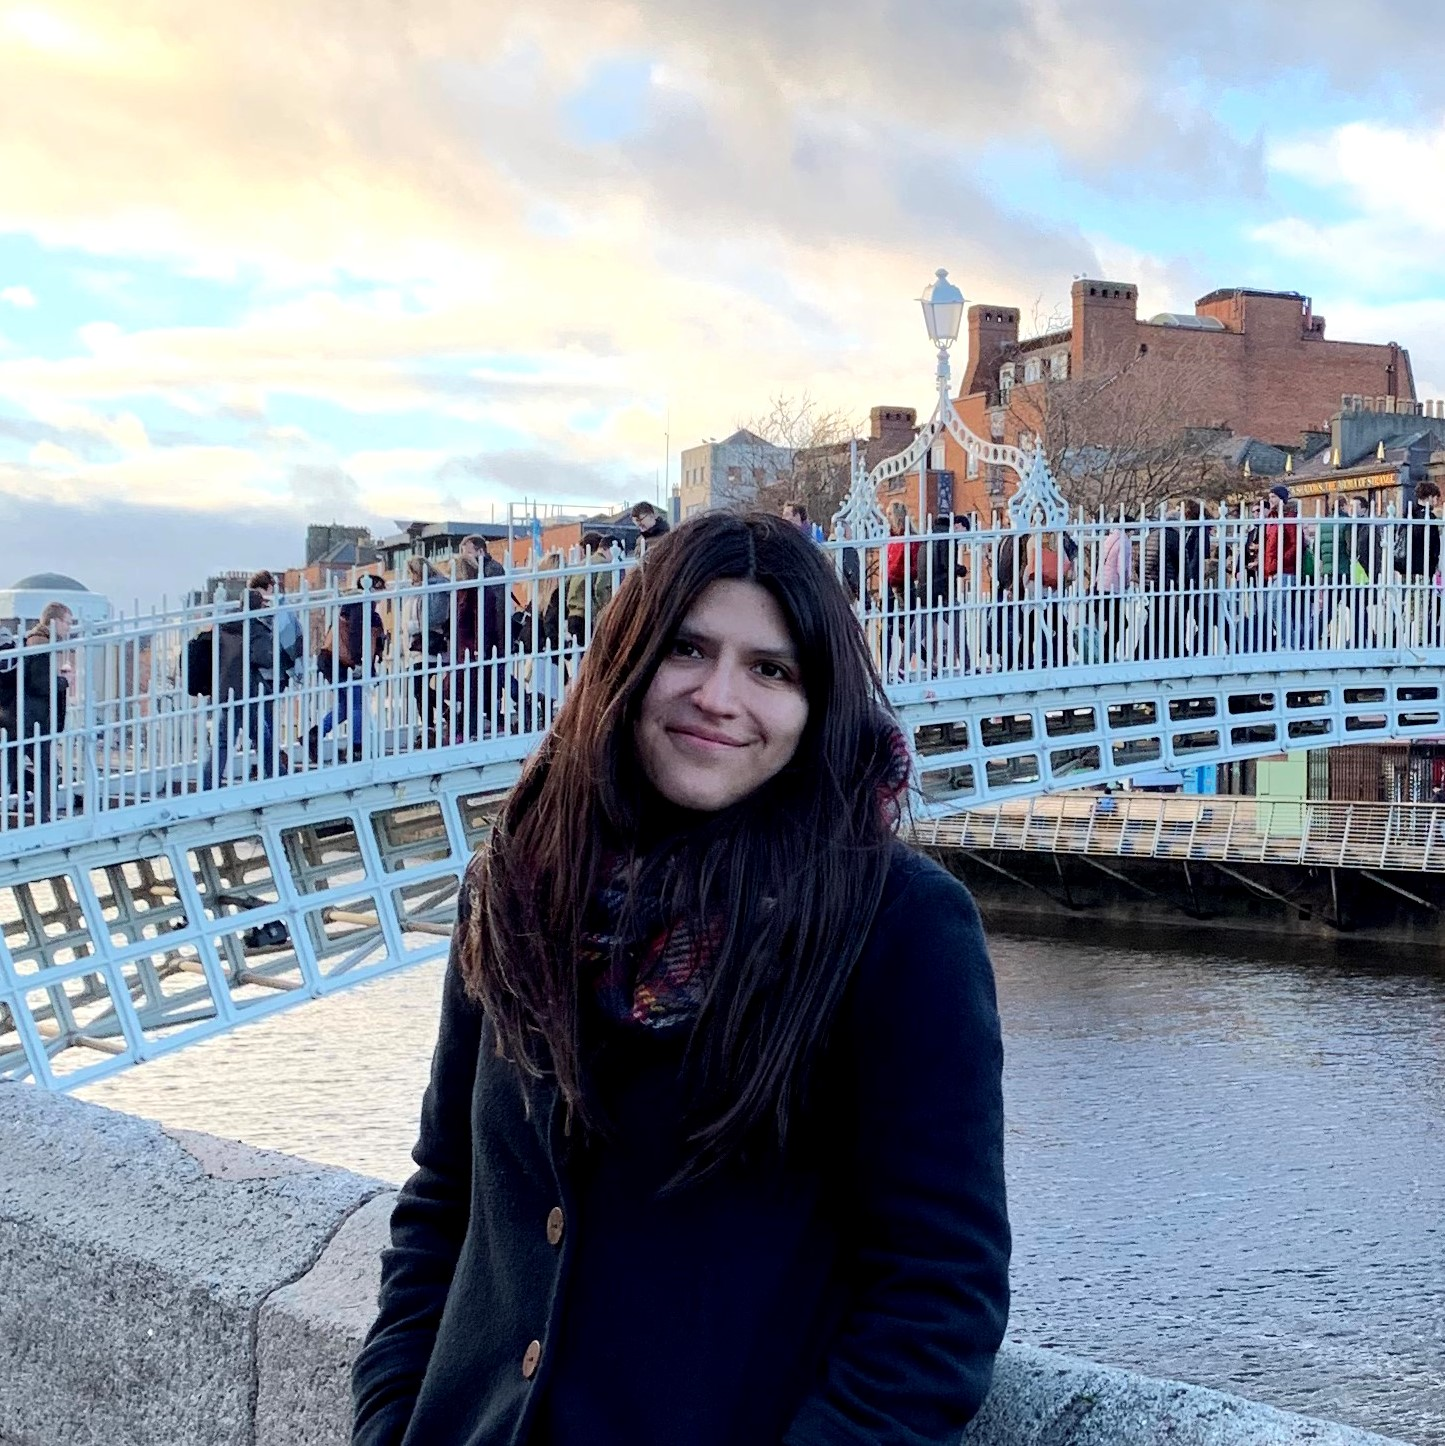
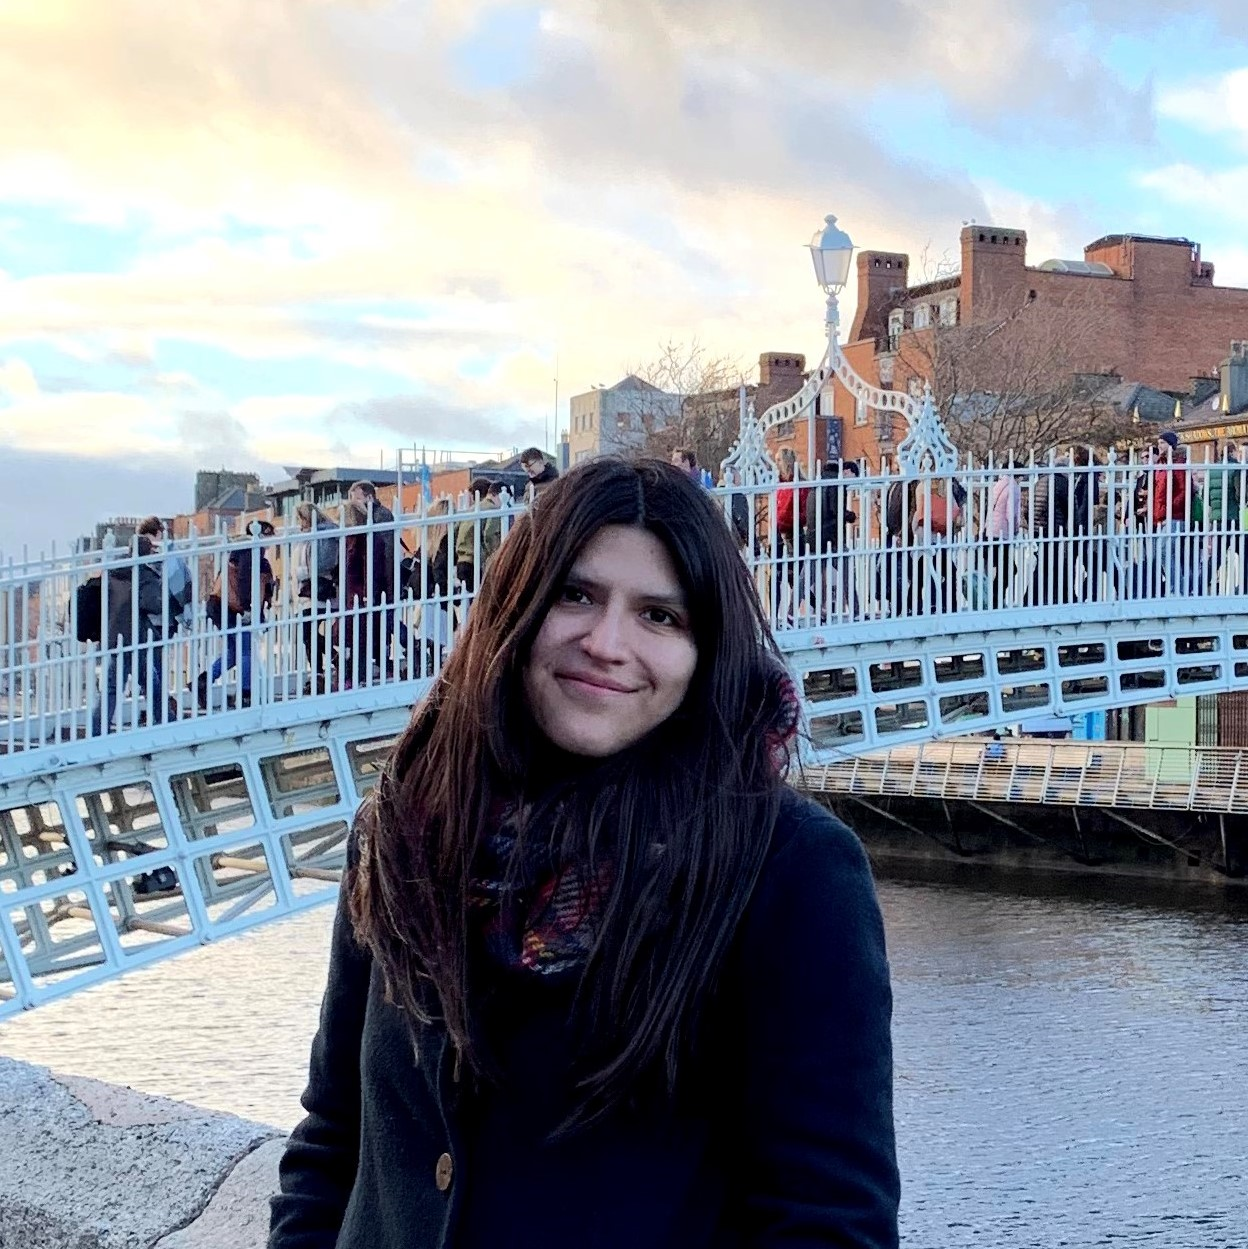
Estilo y fix de cursor

diff --git a/assets/javascript/personal-website.js b/assets/javascript/personal-website.js
@@ -17,26 +17,27 @@ const replaceText = (element, texts, period) => {
         let periodAux = period;
         let currentText = element.innerHTML;
 
+        if(currentText === texts[texts.length - 1]) {
+            element.classList.toggle("blinking-cursor"); //Remove
+            return;
+        };
+
         if(currentText === "") {
             action = TYPE;
             text = texts[i];
             i++;
         };
 
-        if(currentText === text) { action = DELETE; };
-
-        if(currentText === texts[texts.length - 1]) {
-            element.classList.remove("cursor");
-            element.classList.remove("blinking-cursor");
-            return;
+        if(currentText === text) {
+            element.classList.toggle("cursor"); //Add
+            action = DELETE;
         };
 
         currentText = text.substring(0, currentText.length + action);
         element.innerHTML = currentText;
 
         if(currentText === text) {
-            element.classList.remove("cursor");
-            element.classList.add("blinking-cursor");
+            element.classList.toggle("cursor"); //Remove
             periodAux = WAIT;
         };
 
@@ -47,8 +48,8 @@ const replaceText = (element, texts, period) => {
     period = parseInt(period, 10) || 150;
 
     setTimeout(() => {
-        element.classList.add("cursor");
-        updateText(element, element.innerHTML, DELETE)
+        element.classList.toggle("blinking-cursor"); //Add
+        updateText(element, element.innerHTML, TYPE);
     }, WAIT);
 };
 
@@ -59,6 +60,6 @@ window.onload = () => {
         let texts = element.getAttribute('data-texts');
         let period = element.getAttribute('data-period');
 
-        setTimeout(replaceText(element, JSON.parse(texts), period), 750);
+        setTimeout(replaceText(element, JSON.parse(texts), period), 1000);
     });
 };

diff --git a/index.html b/index.html
@@ -11,11 +11,11 @@
 <body>
     <div class="container">
         <img src="assets/images/Profile - Dublin.jpg" alt="Foto de perfil" class="photo">
-        <h1 class="greeting typed" data-period="100" data-texts='[ "¡Bienvenido!", "Bienvenue !", "Welcome!" ]'>Hello, stranger!</h1>
+        <div class="greeting-container"><h2 class="greeting typed" data-period="100" data-texts='[ "¡Bienvenido!", "Bienvenue !", "Welcome!" ]'>Hello, stranger!</h2></div>
         <p class="about-me">My name is Tamara Berrocal 👩🏻🎤, but I prefer Tami.</p>
         <p class="about-me">I'm a web dev enthusiast 👩🏻💻 pursuing a career change, since I'm currently working as a functional (sometimes technical) analyst.</p>
-        <p class="home">I live in Buenos Aires 💜, but I'd love to live abroad for a while, or even relocate, who knows.</p>
-        <p>You can find me at:</p>
+        <p class="about-me">I live in Buenos Aires 💜, but I'd love to live abroad for a while, or even relocate, who knows.</p>
+        <p class="contact">You can find me at:</p>
         <div class="social-networks"></div>
         <p class="contact">Let's keep in touch 📧, my e-mail is <a href="mailto:tamaraberrocal@gmail.com" class="email">tamaraberrocal@gmail.com</a>.</p>
         <p class="goodbye">Thanks for passing by!</p>

diff --git a/assets/css/personal-website.css b/assets/css/personal-website.css
@@ -7,22 +7,32 @@ body {
 }
 
 .container {
-    width: 35vw;
-    margin: 5vh auto;
+    min-width: 30vw;
+    max-width: 40vmax;
+    margin: 20px auto;
 }
 
 .photo {
     display: block;
-    height: 25vmax;
-    width: 25vmax;
-    margin: 0 auto 5vh auto;
+    height: 40vh;
+    width: 40vh;
+    min-height: 175px;
+    min-width: 175px;
+    margin: 0 auto;
     border-radius: 50%;
 }
 
+.greeting-container {
+    height: fit-content;
+    min-height: 20px;
+}
+
 .greeting {
-    max-width: fit-content;
+    height: 100%;
+    width: fit-content;
+    max-width: 100%;
     background-color: #ffb3ba;
-    margin: 0 auto;
+    margin: 20px auto;
     padding: 2px;
     box-sizing: border-box;
     border: 2px solid #ffb3ba;
@@ -30,7 +40,7 @@ body {
     font-weight: bold;
     font-style: italic;
     text-transform: uppercase;
-    text-shadow: 1px 1px #fff;
+    text-shadow: 1.25px 1.25px #fff;
     opacity: .9;
 }
 
@@ -47,4 +57,9 @@ body {
 @keyframes blink {
     0% { border: 2px solid #ffb3ba; }
     50% { border-right: 2px solid #000; }
+}
+
+.about-me, .contact, .goodbye {
+    width: 100%;
+    font-size: 10pt;
 }
